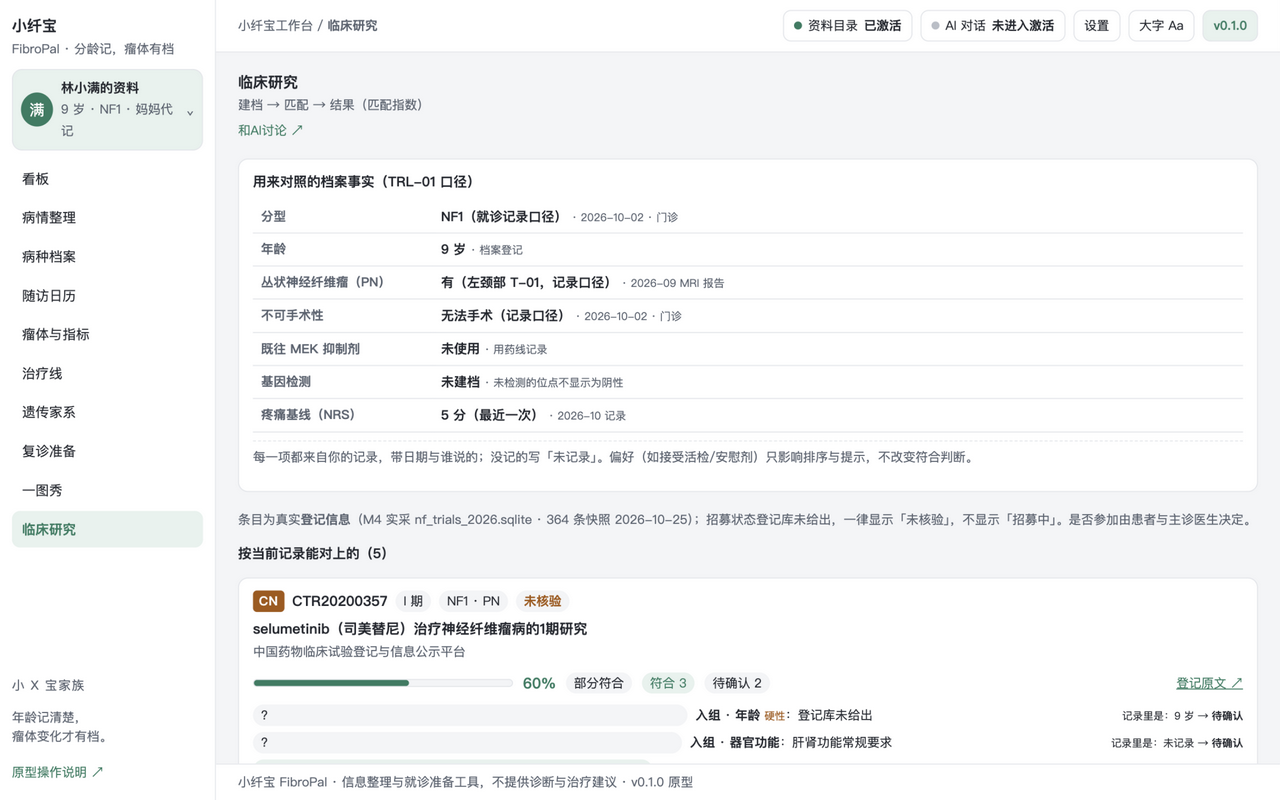
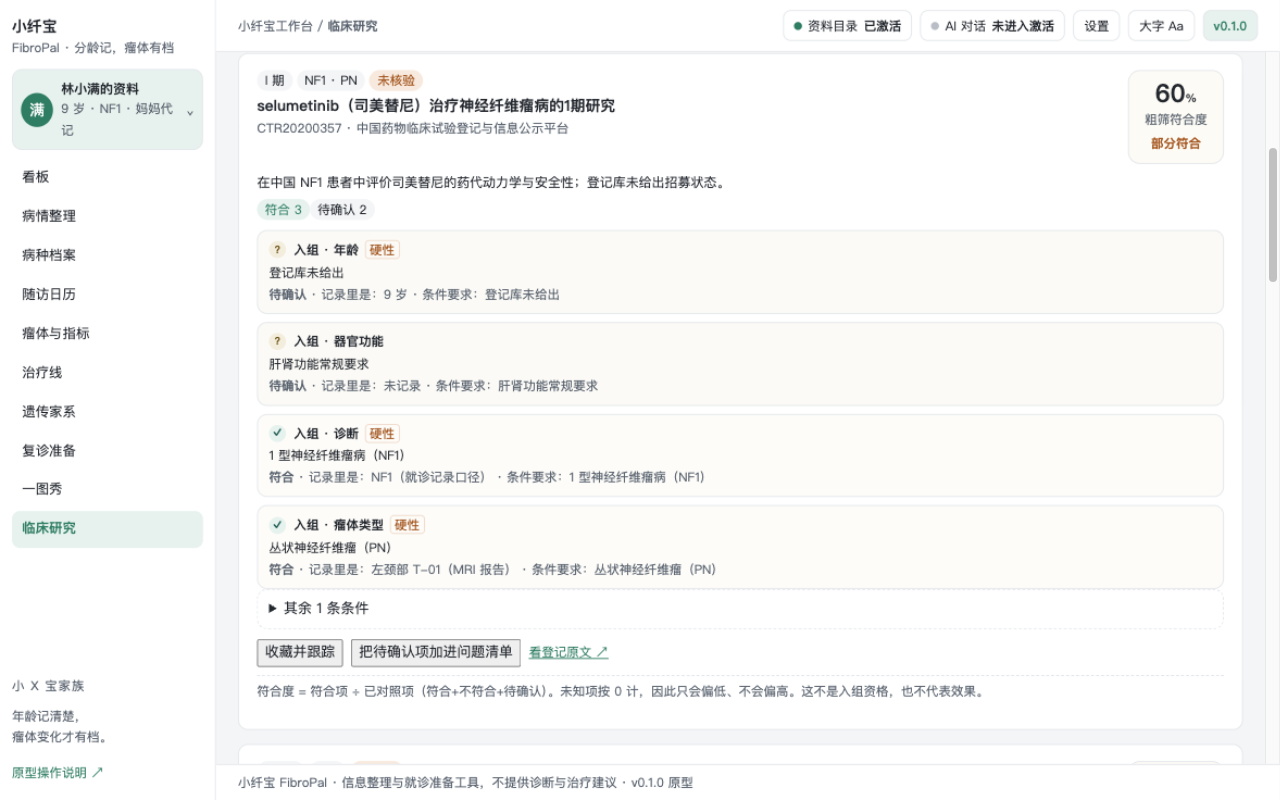
0.1.4: trials page visual parity with biliary v0.2 (fit box, crit boxes with round marks, fact grid, export-this-compare); dev client synced; honest install note (host kernel lazy-spawns per session)

diff --git a/lib/client.js b/lib/client.js
@@ -82,9 +82,33 @@ font-variant-numeric:tabular-nums;min-width:0;flex:1;display:flex;flex-direction
 .wb-nf .pinbox{margin-top:10px;background:var(--accent-soft);border:1px solid var(--line);border-radius:10px;padding:10px 12px;display:flex;justify-content:space-between;gap:12px;align-items:flex-start;font-size:12.5px}
 .wb-nf .regbadge{color:#fff;border-radius:4px;font-size:12.5px;font-weight:700;padding:1px 6px;letter-spacing:.5px}
 .wb-nf .regno{font-weight:600}
-.wb-nf .matchbar{flex:1;max-width:260px;height:8px;border-radius:4px;background:var(--bg);border:1px solid var(--line);overflow:hidden}
-.wb-nf .matchbar i{display:block;height:100%;background:var(--accent)}
-.wb-nf .trial-top{display:flex;align-items:center;gap:8px;flex-wrap:wrap}
+.wb-nf .trial-card{background:var(--card);border:1px solid var(--line);border-radius:10px;padding:16px 18px;margin-bottom:14px}
+.wb-nf .trial-card.ineligible{background:#fdfbf7;border-style:dashed}
+.wb-nf .trial-top{display:flex;align-items:flex-start;gap:14px;justify-content:space-between}
+.wb-nf .trial-tags{display:flex;flex-wrap:wrap;gap:4px;margin-bottom:4px}
+.wb-nf .trial-card h2{font-size:15px;line-height:1.45;margin:2px 0}
+.wb-nf .trial-reg{color:var(--muted);font-size:12.5px;margin:2px 0 0}
+.wb-nf .fit{flex:0 0 96px;text-align:center;border:1px solid var(--line);border-radius:12px;padding:10px 8px;background:#fdfbf5}
+.wb-nf .fit b{font-size:25px;line-height:1;display:block;font-weight:600}
+.wb-nf .fit b small{font-size:12.5px;font-weight:500}
+.wb-nf .fit span{display:block;font-size:12.5px;color:var(--muted);margin-top:4px}
+.wb-nf .fit em{display:block;font-style:normal;font-size:12.5px;font-weight:600;margin-top:5px}
+.wb-nf .fit.ok em{color:var(--accent)}.wb-nf .fit.warn em{color:var(--warn)}.wb-nf .fit.no em{color:#8a2119}.wb-nf .fit.grey em{color:var(--muted)}
+.wb-nf .match-counts{margin:6px 0 10px}
+.wb-nf .crit-list{display:grid;gap:8px}
+.wb-nf .crit{border:1px solid var(--line);border-radius:10px;padding:9px 11px;background:#fdfcf9}
+.wb-nf .crit.unmet{background:#fdf3f1;border-color:#f0d9d3}
+.wb-nf .crit.unknown{background:#fbfaf6}
+.wb-nf .crit-line{display:flex;align-items:center;gap:8px;font-size:12.5px;font-weight:500}
+.wb-nf .crit-line>span:not(.crit-mark){flex:1}
+.wb-nf .crit p{font-size:12.5px;margin:3px 0 2px;line-height:1.6}
+.wb-nf .crit small{font-size:12.5px;line-height:1.55;display:block;color:var(--muted)}
+.wb-nf .crit-mark{width:17px;height:17px;border-radius:50%;display:grid;place-items:center;font-size:10.5px;font-weight:700;flex:0 0 auto}
+.wb-nf .crit-mark.ok{background:#e6f2ee;color:#215d54}
+.wb-nf .crit-mark.no{background:#fbe6e2;color:#8a2119}
+.wb-nf .crit-mark.q{background:#f3eddd;color:#6f5316}
+.wb-nf .hardtag{margin-left:6px;font-size:12.5px;color:var(--warn);border:1px solid #f0d9c8;border-radius:4px;padding:0 4px;font-weight:400}
+.wb-nf .trial-actions{display:flex;gap:8px;align-items:center;margin-top:10px}
 .wb-nf .carry{background:var(--bg);border:1px dashed var(--line);border-radius:8px;padding:10px;font-size:12.5px;margin-top:8px;max-height:280px;overflow:auto}
 .wb-nf .ft{border-top:1px solid var(--line);background:var(--card);color:var(--muted);font-size:12.5px;padding:6px 16px}
 @media (max-width:760px){.wb-nf .one-grid{grid-template-columns:1fr}.wb-nf .rail{position:static}}
@@ -341,39 +365,35 @@ font-variant-numeric:tabular-nums;min-width:0;flex:1;display:flex;flex-direction
             const band = hardUnmet.length ? 'ineligible' : (pct >= 80 && unknown <= 1) ? 'high' : pct >= 55 ? 'partial' : 'needs_info'
             return { t, evals, met, unmet, unknown, pct, band }
           }
+          const all = wb.trials.map(match)
+          const fit = all.filter(m => m.band !== 'ineligible').sort((x, y) => y.pct - x.pct)
+          const bad = all.filter(m => m.band === 'ineligible')
           const BANDS = { high: '高度符合', partial: '部分符合', needs_info: '需补充信息', ineligible: '硬性条件不满足' }
-          const icon = st => st === 'met' ? h('span', { className: 'pill ok', style: { margin: 0 } }, '✓') : st === 'unmet' ? h('span', { className: 'pill todo', style: { margin: 0 } }, '✕') : h('span', { className: 'pill', style: { margin: 0 } }, '?')
+          const bandCls = m => m.band === 'high' ? 'ok' : m.band === 'partial' ? 'warn' : m.band === 'ineligible' ? 'no' : 'grey'
+          const icon = st => h('span', { className: 'crit-mark ' + (st === 'met' ? 'ok' : st === 'unmet' ? 'no' : 'q') }, st === 'met' ? '✓' : st === 'unmet' ? '✕' : '?')
           const card = (m) => {
             const t = m.t
             const order = { unmet: 0, unknown: 1, met: 2 }
             const sorted = [...m.evals].sort((x, y) => order[x.state] - order[y.state])
             const top = sorted.slice(0, 4), rest = sorted.slice(4)
-            const critLine = (e, i) => h('div', { className: 'critline', key: i, style: { display: 'flex', gap: 8, alignItems: 'baseline', fontSize: '12.5px' } },
-              icon(e.state),
-              h('span', { style: { flex: 1 } }, h('b', null, (e.c.kind === 'exclude' ? '排除' : '入组') + ' · ' + (e.c.cat || '条件')), e.c.hard ? h('span', { style: { color: 'var(--warn)', fontSize: '12.5px' } }, ' 硬性') : null, '：' + (e.c.need || '')),
-              h('span', { style: { color: 'var(--muted)', fontSize: '12.5px' } }, '记录里是：' + (e.c.actual || '见记录') + ' → ' + h('b', null, NAME[e.state][0])))
-            return h('div', { className: 'card', key: t.nctId, style: { marginBottom: 12 } },
+            const critLine = (e, i) => h('div', { className: 'crit ' + (e.state === 'unmet' ? 'unmet' : e.state === 'unknown' ? 'unknown' : ''), key: i },
+              h('div', { className: 'crit-line' }, icon(e.state),
+                h('span', null, h('b', null, (e.c.kind === 'exclude' ? '排除' : '入组') + ' · ' + (e.c.cat || '条件')), e.c.hard ? h('span', { className: 'hardtag' }, '硬性') : null)),
+              h('p', null, e.c.need || ''),
+              h('small', null, h('b', null, NAME[e.state][0]), ' · 记录里是：' + (e.c.actual || '见记录') + ' · 条件要求：' + (e.c.need || '')))
+            return h('section', { className: 'trial-card' + (m.band === 'ineligible' ? ' ineligible' : ''), key: t.nctId },
               h('div', { className: 'trial-top' },
-                h('span', { className: 'regbadge', style: { background: flagColor[t.flag] || '#5b6470' } }, t.flag || '—'),
-                h('span', { className: 'regno' }, t.nctId), h('span', { className: 'pill' }, t.phase),
-                t.kind && h('span', { className: 'pill' }, t.kind),
-                h('span', { style: { marginLeft: 'auto', fontSize: '12.5px', color: 'var(--muted)' } }, t.registered ? '注册 ' + t.registered : h('b', { style: { color: 'var(--warn)' } }, '未核验'))),
-              h('p', { style: { fontWeight: 600, margin: '6px 0 4px' } }, t.title),
-              h('div', { style: { display: 'flex', alignItems: 'center', gap: 10, margin: '8px 0' } },
-                h('div', { className: 'matchbar' }, h('i', { style: { width: m.pct + '%' } })),
-                h('b', { style: { fontSize: '15px', color: 'var(--accent)' } }, m.pct + '%'),
-                h('span', { className: 'pill' + (m.band === 'high' ? ' ok' : m.band === 'partial' ? '' : ' todo') }, BANDS[m.band]),
-                h('span', { className: 'pill ok' }, '符合 ' + m.met),
-                m.unmet ? h('span', { className: 'pill todo' }, '不符合 ' + m.unmet) : null,
-                m.unknown ? h('span', { className: 'pill' }, '待确认 ' + m.unknown) : null,
-                t.sourceUrl ? h('a', { className: 'discuss-btn', href: t.sourceUrl, target: '_blank', rel: 'noreferrer', style: { marginLeft: 'auto' } }, '登记原文 ↗') : null),
-              h('div', null, top.map(critLine)),
-              rest.length ? h('details', null, h('summary', { className: 'discuss-btn', style: { display: 'inline' } }, '其余 ' + rest.length + ' 条条件'), h('div', null, rest.map(critLine))) : null,
-              h('p', { className: 'ctx' }, '粗筛符合度 = 符合项 ÷ 已对照项（符合+不符合+待确认）。未知项按 0 计，因此只会偏低、不会偏高。这不是入组资格，也不代表效果。'))
+                h('div', { style: { minWidth: 0 } },
+                  h('div', { className: 'trial-tags' }, h('span', { className: 'pill' }, t.phase), t.kind ? h('span', { className: 'pill' }, t.kind) : null, t.registered ? h('span', { className: 'pill' }, '注册 ' + t.registered) : h('span', { className: 'pill todo' }, '未核验')),
+                  h('h2', null, t.title),
+                  h('p', { className: 'trial-reg' }, t.nctId + ' · 登记平台（快照见设置页）')),
+                h('div', { className: 'fit ' + bandCls(m) }, h('b', null, m.pct, h('small', null, '%')), h('span', null, '粗筛符合度'), h('em', null, BANDS[m.band]))),
+              h('div', { className: 'match-counts' }, h('span', { className: 'pill ok' }, '符合 ' + m.met), m.unmet ? h('span', { className: 'pill todo' }, '不符合 ' + m.unmet) : null, m.unknown ? h('span', { className: 'pill' }, '待确认 ' + m.unknown) : null),
+              h('div', { className: 'crit-list' }, top.map(critLine)),
+              rest.length ? h('details', { className: 'crit-more' }, h('summary', null, '其余 ' + rest.length + ' 条条件'), h('div', { className: 'crit-list' }, rest.map(critLine))) : null,
+              h('div', { className: 'trial-actions' }, t.sourceUrl ? h('a', { className: 'discuss-btn', href: t.sourceUrl, target: '_blank', rel: 'noreferrer' }, '看登记原文 ↗') : null),
+              h('p', { className: 'ctx' }, '符合度 = 符合项 ÷ 已对照项（符合+不符合+待确认）。未知项按 0 计，因此只会偏低、不会偏高。这不是入组资格，也不代表效果。'))
           }
-          const all = wb.trials.map(match)
-          const fit = all.filter(m => m.band !== 'ineligible').sort((x, y) => y.pct - x.pct)
-          const bad = all.filter(m => m.band === 'ineligible')
           return h('div', null, head('建档 → 匹配 → 结果（粗筛符合度）'),
             h('div', { className: 'card', style: { marginBottom: 12 } }, h('h3', null, '用来对照的档案事实'),
               h('table', null, h('tbody', null, [
@@ -383,7 +403,7 @@ font-variant-numeric:tabular-nums;min-width:0;flex:1;display:flex;flex-direction
                 ['基因检测', '未建档（未检测的位点不显示为阴性）']
               ].map((f, k) => h('tr', { key: k }, h('th', { style: { width: 180 } }, f[0]), h('td', null, f[1]))))),
               h('p', { className: 'ctx' }, '每一项都来自你的记录；没记的写「未记录」。')),
-            h('p', { className: 'ctx', style: { border: 0, margin: '0 0 10px' } }, '条目为真实登记信息（nf_trials_2026.sqlite · 快照见设置页）；招募状态登记库未给出的一律「未核验」，不显示「招募中」。是否参加由患者与主诊医生决定。'),
+            h('p', { className: 'ctx', style: { border: 0, margin: '0 0 10px' } }, '条目为真实登记信息；招募状态登记库未给出的一律「未核验」，不显示「招募中」。是否参加由患者与主诊医生决定。'),
             h('h3', null, '按当前记录能对上的（' + fit.length + '）'),
             fit.map(card),
             bad.length ? h('details', null, h('summary', { className: 'discuss-btn', style: { display: 'inline' } }, '硬性条件不满足的 ' + bad.length + ' 条（点开看是哪一条挡住了）'), bad.map(card)) : null)

diff --git a/prototypes/v0.1/app.js b/prototypes/v0.1/app.js
@@ -280,49 +280,58 @@ function matchTrial(t) {
   return { t, evals, met, unmet, unknown, pct, band, hardUnmet };
 }
 const BAND = { high: ['高度符合'], partial: ['部分符合'], needs_info: ['需补充信息'], ineligible: ['硬性条件不满足'] };
-const critIcon = st => st === 'met' ? '<span class="pill ok" style="margin:0">✓</span>' : st === 'unmet' ? '<span class="pill todo" style="margin:0">✕</span>' : '<span class="pill" style="margin:0">?</span>';
+const critIcon = st => `<span class="crit-mark ${st === 'met' ? 'ok' : st === 'unmet' ? 'no' : 'q'}">${st === 'met' ? '✓' : st === 'unmet' ? '✕' : '?'}</span>`;
 let savedTrials = {};
 function trialCard(m) {
   const t = m.t;
   const [bandLabel] = BAND[m.band];
   const saved = savedTrials[t.reg];
+  const bandCls = m.band === 'high' ? 'ok' : m.band === 'partial' ? 'warn' : m.band === 'ineligible' ? 'no' : 'grey';
   const order = { unmet: 0, unknown: 1, met: 2 };
   const sorted = [...m.evals].sort((a, b) => order[a.state] - order[b.state]);
   const top = sorted.slice(0, 4), rest = sorted.slice(4);
-  const line = ({ c, state }) => `<div class="critline">${critIcon(state)}<span><b>${c.kind === 'exclude' ? '排除' : '入组'} · ${esc(c.cat)}</b>${c.hard ? ' <small style="color:var(--warn)">硬性</small>' : ''}：${esc(c.need)}</span><small style="color:var(--muted)">记录里是：${esc(c.actual)} → <b>${STATE_NAME[state][0]}</b></small></div>`;
-  return `<div class="card trial-card" style="margin-bottom:12px">
-    <div class="trial-top"><span class="regbadge" style="background:${{ CN: '#a4561f', EU: '#2f6f8f', JP: '#22664e' }[t.flag] || '#5b6470'}">${esc(t.flag)}</span><span class="regno">${esc(t.reg)}</span><span class="pill">${esc(t.phase)} 期</span><span class="pill">${esc(t.scope)}</span><span class="pill">${t.verified ? esc(t.verified) : '<b style="color:var(--warn)">未核验</b>'}</span></div>
-    <p style="font-weight:600;margin:6px 0 2px">${esc(t.title)}</p>
-    <p class="ctx" style="border:0;margin:2px 0;padding:0">${esc(t.registry)}</p>
-    <div style="display:flex;align-items:center;gap:10px;margin:8px 0">
-      <div class="matchbar"><i style="width:${m.pct}%"></i></div>
-      <b style="font-size:15px;color:var(--accent)">${m.pct}%</b>
-      <span class="pill ${m.band === 'high' ? 'ok' : m.band === 'partial' ? '' : 'todo'}">${esc(bandLabel)}</span>
-      <span class="pill ok">符合 ${m.met}</span>${m.unmet ? `<span class="pill todo">不符合 ${m.unmet}</span>` : ''}${m.unknown ? `<span class="pill">待确认 ${m.unknown}</span>` : ''}
-      <a class="text-button" href="${esc(t.url)}" target="_blank" rel="noreferrer" style="margin-left:auto">登记原文 ↗</a>
+  const line = ({ c, state }) => `<div class="crit ${state === 'unmet' ? 'unmet' : state === 'unknown' ? 'unknown' : ''}">
+    <div class="crit-line">${critIcon(state)}<span><b>${c.kind === 'exclude' ? '排除' : '入组'} · ${esc(c.cat)}</b>${c.hard ? '<span class="hardtag">硬性</span>' : ''}</span></div>
+    <p>${esc(c.need)}</p>
+    <small><b>${STATE_NAME[state][0]}</b> · 记录里是：${esc(c.actual)} · 条件要求：${esc(c.need)}</small>
+  </div>`;
+  return `<section class="trial-card ${m.band === 'ineligible' ? 'ineligible' : ''}">
+    <div class="trial-top">
+      <div style="min-width:0">
+        <div class="trial-tags"><span class="pill">${esc(t.phase)} 期</span><span class="pill">${esc(t.scope)}</span><span class="pill ${t.verified ? '' : 'todo'}">${t.verified ? esc(t.verified) : '未核验'}</span></div>
+        <h2>${esc(t.title)}</h2>
+        <p class="trial-reg">${esc(t.reg)} · ${esc(t.registry)}</p>
+      </div>
+      <div class="fit ${bandCls}"><b>${m.pct}<small>%</small></b><span>粗筛符合度</span><em>${esc(bandLabel)}</em></div>
     </div>
-    <div class="critlist">${top.map(line).join('')}</div>
-    ${rest.length ? `<details><summary class="text-button" style="display:inline">其余 ${rest.length} 条条件</summary><div class="critlist">${rest.map(line).join('')}</div></details>` : ''}
-    <div class="row" style="display:flex;gap:8px;margin-top:8px">
+    <p class="trial-sum">${esc(t.summary)}</p>
+    <div class="match-counts"><span class="pill ok">符合 ${m.met}</span>${m.unmet ? `<span class="pill todo">不符合 ${m.unmet}</span>` : ''}${m.unknown ? `<span class="pill">待确认 ${m.unknown}</span>` : ''}</div>
+    <div class="crit-list">${top.map(line).join('')}</div>
+    ${rest.length ? `<details class="crit-more"><summary>其余 ${rest.length} 条条件</summary><div class="crit-list">${rest.map(line).join('')}</div></details>` : ''}
+    <div class="trial-actions">
       <button data-action="trial-save" data-id="${esc(t.reg)}">${saved ? '已收藏（在跟）' : '收藏并跟踪'}</button>
       <button data-action="trial-ask" data-id="${esc(t.reg)}">把待确认项加进问题清单</button>
+      <a class="text-button" href="${esc(t.url)}" target="_blank" rel="noreferrer">看登记原文 ↗</a>
     </div>
-    <p class="ctx">粗筛符合度 = 符合项 ÷ 已对照项（符合+不符合+待确认）。未知项按 0 计，因此只会偏低、不会偏高。这不是入组资格，也不代表效果。</p>
-  </div>`;
+    <p class="ctx">符合度 = 符合项 ÷ 已对照项（符合+不符合+待确认）。未知项按 0 计，因此只会偏低、不会偏高。这不是入组资格，也不代表效果。</p>
+  </section>`;
 }
-
 function renderTrials() {
   const all = D.trials.map(matchTrial);
   const fit = all.filter(m => m.band !== 'ineligible').sort((a, b2) => b2.pct - a.pct);
   const bad = all.filter(m => m.band === 'ineligible');
-  return pageHead() + `
-  <div class="card" style="margin-bottom:12px"><h3>用来对照的档案事实（TRL-01 口径）</h3>
-  <table>${D.trialFacts.map(f => `<tr><th style="width:180px">${esc(f[0])}</th><td><b>${esc(f[1])}</b> <small style="color:var(--ink-2)">· ${esc(f[2])}</small></td></tr>`).join('')}</table>
-  <p class="ctx">每一项都来自你的记录，带日期与谁说的；没记的写「未记录」。偏好（如接受活检/安慰剂）只影响排序与提示，不改变符合判断。</p></div>
+  const exportText = ['【临床试验对照 · ' + new Date().toISOString().slice(0, 10) + '】',
+    ...D.trialFacts.map(f => '- ' + f[0] + '：' + f[1] + '（' + f[2] + '）'),
+    ...all.map(m => '- ' + m.t.reg + ' ' + m.pct + '%（' + BAND[m.band][0] + '，符合 ' + m.met + '/待确认 ' + m.unknown + '/不符合 ' + m.unmet + '）'),
+    '口径：符合度=符合÷已对照项，未知按0计；不是入组资格。'].join('\n');
+  return pageHead() + `<button class="exportbtn" data-action="copy" data-text="${esc(exportText)}">导出这次对照</button>
   <p class="ctx" style="border:0;margin:0 0 10px">条目为真实<b>登记信息</b>（M4 实采 nf_trials_2026.sqlite · 364 条快照 2026-10-25）；招募状态登记库未给出，一律显示「未核验」，不显示「招募中」。是否参加由患者与主诊医生决定。</p>
+  <div class="card" style="margin-bottom:12px"><h3>用来对照的档案事实（TRL-01 口径）</h3>
+  <div class="factgrid">${D.trialFacts.map(f => `<dl><dt>${esc(f[0])}</dt><dd><b>${esc(f[1])}</b><span>${esc(f[2])}</span></dd></dl>`).join('')}</div>
+  <p class="ctx">每一项都来自你的记录，带日期与谁说的；没记的写「未记录」。偏好（如接受活检/安慰剂）只影响排序与提示，不改变符合判断。</p></div>
   <h3 style="font-size:13.5px">按当前记录能对上的（${fit.length}）</h3>
   ${fit.map(trialCard).join('')}
-  ${bad.length ? `<details><summary class="text-button" style="display:inline">硬性条件不满足的 ${bad.length} 条（点开看是哪一条挡住了）</summary>${bad.map(trialCard).join('')}</details>` : ''}`;
+  ${bad.length ? `<details class="badwrap"><summary class="text-button" style="display:inline">硬性条件不满足的 ${bad.length} 条（点开看是哪一条挡住了）</summary>${bad.map(trialCard).join('')}</details>` : ''}`;
 }
 const RENDER = { dashboard: renderDashboard, records: renderRecords, subtype: renderSubtype, calendar: renderCalendar, tumors: renderTumors, treatment: renderTreatment, genetics: renderGenetics, review: renderReview, onechart: renderOnechart, trials: renderTrials };
 

diff --git a/prototypes/v0.1/style.css b/prototypes/v0.1/style.css
@@ -168,13 +168,44 @@ body.bigfont .page-head h1 { font-size: 15px; }
   main { padding: 12px; }
 }
 
-/* 临床研究（真实登记条目呈现） */
-.trial-card { margin-bottom: 12px; }
-.trial-top { display: flex; align-items: center; gap: 8px; flex-wrap: wrap; }
-.regbadge { color: #fff; border-radius: 4px; font-size: 12.5px; font-weight: 700; padding: 1px 6px; letter-spacing: .5px; }
-.regno { font-weight: 600; font-variant-numeric: tabular-nums; }
-.matchbar { flex: 1; max-width: 260px; height: 8px; border-radius: 4px; background: var(--bg); border: 1px solid var(--line); overflow: hidden; }
-.matchbar i { display: block; height: 100%; background: var(--accent); border-radius: 4px; }
+/* 临床试验（biliary v0.2 视觉口径） */
+.trial-card { background: var(--card); border: 1px solid var(--line); border-radius: var(--radius); padding: 16px 18px; margin-bottom: 14px; }
+.trial-card.ineligible { background: #fdfbf7; border-style: dashed; }
+.trial-top { display: flex; align-items: flex-start; gap: 14px; justify-content: space-between; }
+.trial-tags { display: flex; flex-wrap: wrap; gap: 4px; margin-bottom: 4px; }
+.trial-card h2 { font-size: 15px; line-height: 1.45; margin: 2px 0; }
+.trial-reg { color: var(--ink-2); font-size: 12.5px; margin: 2px 0 0; font-variant-numeric: tabular-nums; }
+.trial-sum { font-size: 13px; margin: 8px 0 4px; }
+.fit { flex: 0 0 96px; text-align: center; border: 1px solid var(--line); border-radius: 12px; padding: 10px 8px; background: #fdfbf5; }
+.fit b { font-size: 25px; line-height: 1; display: block; font-weight: 600; }
+.fit b small { font-size: 11.5px; font-weight: 500; }
+.fit span { display: block; font-size: 12.5px; color: var(--ink-2); margin-top: 4px; }
+.fit em { display: block; font-style: normal; font-size: 12.5px; font-weight: 600; margin-top: 5px; }
+.fit.ok em { color: var(--accent); } .fit.warn em { color: var(--warn); } .fit.no em { color: #8a2119; } .fit.grey em { color: var(--ink-2); }
+.match-counts { margin: 6px 0 10px; }
+.crit-list { display: grid; gap: 8px; }
+.crit { border: 1px solid var(--line); border-radius: 10px; padding: 9px 11px; background: #fdfcf9; }
+.crit.unmet { background: #fdf3f1; border-color: #f0d9d3; }
+.crit.unknown { background: #fbfaf6; }
+.crit-line { display: flex; align-items: center; gap: 8px; font-size: 12.5px; font-weight: 500; }
+.crit-line > span:not(.crit-mark) { flex: 1; }
+.crit p { font-size: 12.5px; margin: 3px 0 2px; line-height: 1.6; }
+.crit small { font-size: 12.5px; line-height: 1.55; display: block; color: var(--ink-2); }
+.crit-mark { width: 17px; height: 17px; border-radius: 50%; display: grid; place-items: center; font-size: 10.5px; font-weight: 700; flex: 0 0 auto; }
+.crit-mark.ok { background: #e6f2ee; color: #215d54; }
+.crit-mark.no { background: #fbe6e2; color: #8a2119; }
+.crit-mark.q { background: #f3eddd; color: #6f5316; }
+.hardtag { margin-left: 6px; font-size: 12.5px; color: var(--warn); border: 1px solid #f0d9c8; border-radius: 4px; padding: 0 4px; font-weight: 400; }
+.crit-more summary { cursor: pointer; border: 1px dashed var(--line); border-radius: 10px; padding: 8px 11px; }
+.badwrap summary { cursor: pointer; }
+.trial-actions { display: flex; gap: 8px; align-items: center; margin-top: 10px; }
+.exportbtn { float: right; border: 1px solid var(--line); background: var(--card); border-radius: 8px; padding: 6px 12px; font-size: 13px; margin: -6px 0 8px; }
+.factgrid { display: grid; grid-template-columns: repeat(auto-fill, minmax(220px, 1fr)); gap: 8px; }
+.factgrid dl { border: 1px solid var(--line); border-radius: 10px; padding: 8px 10px; margin: 0; background: #fdfcf9; }
+.factgrid dt { font-size: 12.5px; color: var(--ink-2); }
+.factgrid dd { margin: 2px 0 0; font-size: 13px; }
+.factgrid dd b { display: block; }
+.factgrid dd span { display: block; font-size: 12.5px; color: var(--ink-2); }
 
 .critlist { display: flex; flex-direction: column; gap: 6px; }
 .critline { display: flex; align-items: baseline; gap: 8px; font-size: 12.5px; }

diff --git a/lib/version.js b/lib/version.js
@@ -1,9 +1,9 @@
 // 本文件由 scripts/build-version.mjs 生成，请勿手改。
 // 唯一来源：仓库根目录的 VERSION。改版本先改 VERSION，再跑 npm run build:version。
-export const version = '0.1.3'
+export const version = '0.1.4'
 export const build = '2026-10-25'
 export const channel = 'beta'
-export const commit = '2ea3672'
+export const commit = 'b0d5103'
 
 export const displayVersion = `v${version}`
 export const channelLabel = '测试版 · 数据仅在本机'

diff --git a/prototypes/v0.1/index.html b/prototypes/v0.1/index.html
@@ -4,7 +4,7 @@
 <meta charset="utf-8">
 <meta name="viewport" content="width=device-width, initial-scale=1">
 <title>小纤宝 FibroPal · 神经纤维瘤病工作台 · v0.1.0</title>
-<link rel="stylesheet" href="style.css">
+<link rel="stylesheet" href="style.css?v=7">
 </head>
 <body>
 <a class="skip" href="#main">跳到主内容</a>

diff --git a/docs/PROTOTYPE-REVIEW.md b/docs/PROTOTYPE-REVIEW.md
@@ -63,3 +63,12 @@
 
 - 用户逐轮确认六次迭代的最终形态（原话「好很多」「这个也可以」「确认」），覆盖：指标卡墙（breast 口径）、一图秀左栏（动态切换）、临床试验（胆道引擎口径 + 真实登记条目）、全页「和AI讨论 ↗」携带、卡面减负与折线图去背景。
 - **G2 原型基准就此签认**（prototypes/v0.1 为视觉基准，后续 parity 以此为准）。
+
+## 2026-10-25 七次迭代（用户提供本地胆道文件后的视觉对齐）
+- 直接渲染 biliary v0.2 试验页截图做基准（docs/screenshots/ref-biliary/），NF 试验卡视觉逐项对齐：
+  - 右上**描边符合度盒**（大数字 % + 粗筛符合度 + 分档彩字 ok/warn/no/grey），弃用进度条；
+  - 卡结构：阶段/scope/核验 pills → h2 标题 → 登记号 · 登记平台行 → 摘要 → 计数 pills → **条件逐条独立描边盒**（圆形 ✓绿/✕红/?黄 徽标；不符合粉底、待确认米底；硬性标签）→ 其余 N 条虚线折叠 → 动作行（收藏/加问题清单/登记原文）→ 口径脚注；
+  - 页头右上「导出这次对照」（复制文本：档案事实 + 逐条命中 + 口径）；
+  - 档案事实卡改 factgrid 卡片格（dl/dt/dd）。
+- 实测踩坑：样式替换未断言静默失效（后强制整段替换并验证计算样式 border-radius）；浏览器缓存旧 CSS（style.css 加 ?v= 参数根治）；crit-mark 被 span{flex:1} 拉成椭圆（选择器收窄 :not(.crit-mark)）。
+- 开发版同步（client 试验段 fit 盒/crit 盒/圆徽标），按改包必升版发 **0.1.4**（sha256 d47e4716…）装入 ~/.dsh-classic；宿主内核按会话懒加载，界面待用户新建会话确认。

diff --git a/CHANGELOG.md b/CHANGELOG.md
@@ -1,3 +1,7 @@
+## 0.1.4 — 2026-10-25
+
+- 临床试验页视觉对齐 biliary v0.2：右上符合度盒（弃进度条）、条件独立描边盒+圆形徽标、档案事实卡格、导出这次对照；开发版 client 同步（含 cond_text JSON 结构化条件）。
+
 ## 0.1.3 — 2026-10-25
 
 - 原型六轮返工定稿同步进开发版：breast 口径指标卡墙（9 指标 4 组/原位 3D 翻转/较前次箭头/sparkline 背面）、一图秀左栏（范围 chips+分组勾选即时更新+显示开关+每线自身范围缩放+图例全期区间+记录点 pin）、临床试验 biliary 口径（档案事实卡/三态待确认/粗筛分档/硬性单列/收藏与加问题清单）、全页「和AI讨论 ↗」携带本页上下文（34 号 agent-draft）。
